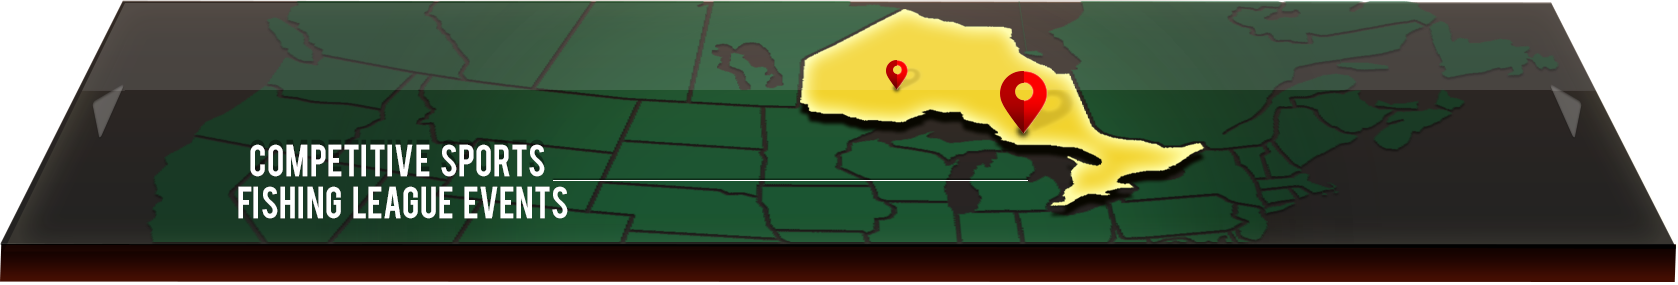
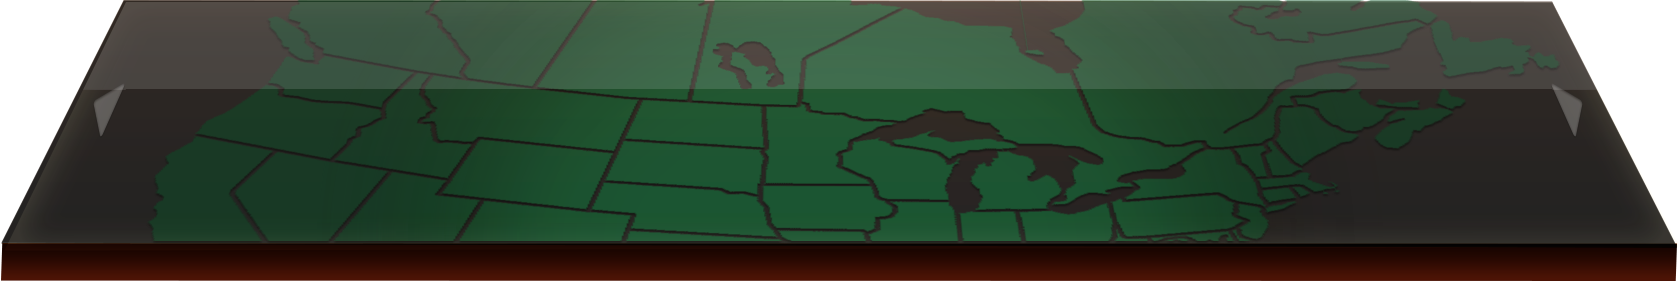
Event Map Mods

Changed region(s): [[0.062, 0.0, 0.9297, 0.7915], [0.0, 0.7915, 1.0, 1.0]]

diff --git a/app/assets/stylesheets/home.css.scss b/app/assets/stylesheets/home.css.scss
@@ -437,11 +437,29 @@
     font-size: 30px;
 }
 
+.eventMapContainer {
+    width:1200px;
+    margin-left: auto;
+    margin-right: auto;
+}
+.mapOntario {
+    margin-left: 305px;
+    margin-top: 100px;
+}
+
+.mapOntarioText {
+    width: 450px;
+    position: absolute;
+    margin-top: 235px;
+    font-size: 25px;
+}
+
 .bassEventMap {
     background-image: image-url('eventMap.png');
     background-repeat: no-repeat;
     background-position:center;
     height: 485px;
+    width: 100%;
     opacity: .8;
 }
 
